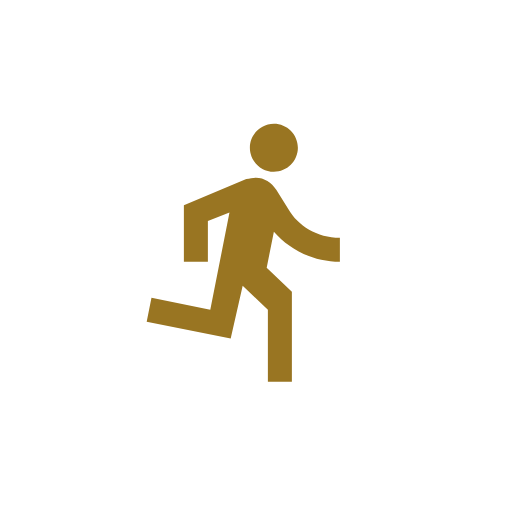
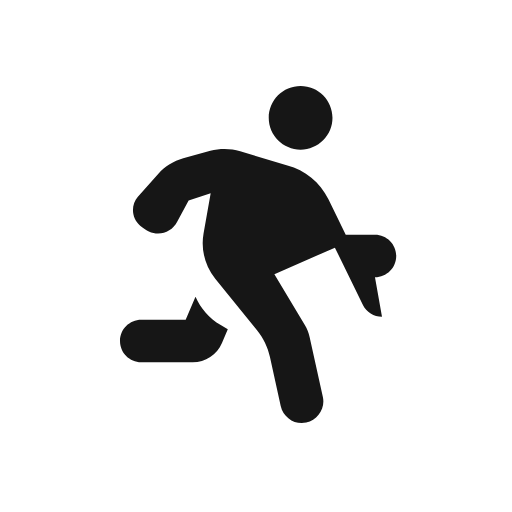
Add files via upload

Changed region(s): [[0.2188, 0.1562, 0.7812, 0.8438]]

diff --git a/index.html b/index.html
@@ -140,6 +140,31 @@ textarea{min-height:64px;resize:vertical}
 </style>
 </head>
 <body>
+<div id="splash" aria-label="Valencia Marathon 2026 — 3.09. Tap to start.">
+  <img class="bg" src="start.jpg" alt="" aria-hidden="true"/>
+  <img class="fg" src="start.jpg" alt="Valencia Marathon 2026 — 3.09"/>
+</div>
+<style>
+#splash{position:fixed;inset:0;z-index:9999;background:#0c0b09;display:block;
+  transition:opacity .5s ease;overflow:hidden;cursor:pointer;-webkit-tap-highlight-color:transparent}
+#splash img{position:absolute;inset:0;width:100%;height:100%;display:block}
+#splash .bg{object-fit:cover;filter:blur(30px) brightness(.55);transform:scale(1.12)}
+#splash .fg{object-fit:contain}
+#splash.hide{opacity:0;pointer-events:none}
+</style>
+<script>
+(function(){
+  function boot(){
+    var s=document.getElementById('splash'); if(!s) return;
+    var done=false;
+    function hide(){ if(done) return; done=true; s.classList.add('hide'); setTimeout(function(){ s.style.display='none'; },520); }
+    s.addEventListener('click',hide,{once:true});
+    s.addEventListener('touchstart',hide,{once:true,passive:true});
+    setTimeout(hide,2600);
+  }
+  if(document.readyState!=='loading') boot(); else document.addEventListener('DOMContentLoaded',boot);
+})();
+</script>
 <div id="root"></div>
 <script>!function(n,t){"object"==typeof exports&&"undefined"!=typeof module?t(exports):"function"==typeof define&&define.amd?define(["exports"],t):t((n||self).preact={})}(this,function(n){var t,i,e,r,f,o,u,c,s,a,h,l,p,y,v,d,w="http://www.w3.org/2000/svg",_="http://www.w3.org/1999/xhtml",g=null,m=void 0,b={},k=[],x=/acit|ex(?:s|g|n|p|$)|rph|grid|ows|mnc|ntw|ine[ch]|zoo|^ord|itera/i,M=Array.isArray;function S(n,t){for(var i in t)n[i]=t[i];return n}function T(n){n&&n.parentNode&&n.parentNode.removeChild(n)}function $(n,i,e){var r,f,o,u={};for(o in i)"key"==o?r=i[o]:"ref"==o?f=i[o]:u[o]=i[o];if(arguments.length>2&&(u.children=arguments.length>3?t.call(arguments,2):e),"function"==typeof n&&n.defaultProps!=g)for(o in n.defaultProps)u[o]===m&&(u[o]=n.defaultProps[o]);return C(n,u,r,f,g)}function C(n,t,r,f,o){var u={type:n,props:t,key:r,ref:f,__k:g,__:g,__b:0,__e:g,__c:g,constructor:m,__v:o==g?++e:o,__i:-1,__u:0};return o==g&&i.vnode!=g&&i.vnode(u),u}function I(n){return n.children}function P(n,t){this.props=n,this.context=t}function j(n,t){if(t==g)return n.__?j(n.__,n.__i+1):g;for(var i;t<n.__k.length;t++)if((i=n.__k[t])!=g&&i.__e!=g)return i.__e;return"function"==typeof n.type?j(n):g}function A(n){if(n.__P&&n.__d){var t=n.__v,e=t.__e,r=[],f=[],o=S({},t);o.__v=t.__v+1,i.vnode&&i.vnode(o),E(n.__P,o,t,n.__n,n.__P.namespaceURI,32&t.__u?[e]:g,r,e==g?j(t):e,!!(32&t.__u),f),o.__v=t.__v,o.__.__k[o.__i]=o,J(r,o,f),t.__e=t.__=null,o.__e!=e&&H(o)}}function H(n){if((n=n.__)!=g&&n.__c!=g)return n.__e=n.__c.base=g,n.__k.some(function(t){if(t!=g&&t.__e!=g)return n.__e=n.__c.base=t.__e}),H(n)}function L(n){(!n.__d&&(n.__d=!0)&&f.push(n)&&!F.__r++||o!=i.debounceRendering)&&((o=i.debounceRendering)||u)(F)}function F(){try{for(var n,t=1;f.length;)f.length>t&&f.sort(c),n=f.shift(),t=f.length,A(n)}finally{f.length=F.__r=0}}function O(n,t,i,e,r,f,o,u,c,s,a){var h,l,p,y,v,d,w=e&&e.__k||k,_=t.length;for(c=z(i,t,w,c,_),h=0;h<_;h++)(p=i.__k[h])!=g&&(l=-1!=p.__i&&w[p.__i]||b,p.__i=h,d=E(n,p,l,r,f,o,u,c,s,a),y=p.__e,p.ref&&l.ref!=p.ref&&(l.ref&&R(l.ref,g,p),a.push(p.ref,p.__c||y,p)),v==g&&y!=g&&(v=y),4&p.__u?(c=N(p,c,n),l.__e&&(l.__e=g)):"function"==typeof p.type&&d!==m?c=d:y&&(c=y.nextSibling),p.__u&=-7);return i.__e=v,c}function z(n,t,i,e,r){var f,o,u,c,s,a=i.length,h=a,l=0;for(n.__k=new Array(r),f=0;f<r;f++)(o=t[f])!=g&&"boolean"!=typeof o&&"function"!=typeof o?("string"==typeof o||"number"==typeof o||"bigint"==typeof o||o.constructor==String?o=n.__k[f]=C(g,o,g,g,g):M(o)?o=n.__k[f]=C(I,{children:o},g,g,g):o.constructor===m&&o.__b>0?o=n.__k[f]=C(o.type,o.props,o.key,o.ref?o.ref:g,o.__v):n.__k[f]=o,c=f+l,o.__=n,o.__b=n.__b+1,s=o.__i=V(o,i,c,h),u=g,-1!=s&&(h--,(u=i[s])&&(u.__u|=2)),u==g||u.__v==g?(-1==s&&(r>a?l--:r<a&&l++),"function"!=typeof o.type&&(o.__u|=4)):s!=c&&(s==c-1?l--:s==c+1?l++:(s>c?l--:l++,o.__u|=4))):n.__k[f]=g;if(h)for(f=0;f<a;f++)(u=i[f])!=g&&0==(2&u.__u)&&(u.__e==e&&(e=j(u)),U(u,u));return e}function N(n,t,i){var e,r;if("function"==typeof n.type){for(e=n.__k,r=0;e&&r<e.length;r++)e[r]&&(e[r].__=n,t=N(e[r],t,i));return t}n.__e!=t&&(t&&n.type&&!t.parentNode&&(t=j(n)),t=i.insertBefore(n.__e,t||g));do{t=t&&t.nextSibling}while(t!=g&&8==t.nodeType);return t}function V(n,t,i,e){var r,f,o,u=n.key,c=n.type,s=t[i],a=s!=g&&0==(2&s.__u);if(s===g&&null==u||a&&u==s.key&&c==s.type)return i;if(e>(a?1:0))for(r=i-1,f=i+1;r>=0||f<t.length;)if((s=t[o=r>=0?r--:f++])!=g&&0==(2&s.__u)&&u==s.key&&c==s.type)return o;return-1}function q(n,t,i){"-"==t[0]?n.setProperty(t,i==g?"":i):n[t]=i==g?"":"number"!=typeof i||x.test(t)?i:i+"px"}function B(n,t,i,e,r){var f,o;n:if("style"==t)if("string"==typeof i)n.style.cssText=i;else{if("string"==typeof e&&(n.style.cssText=e=""),e)for(t in e)i&&t in i||q(n.style,t,"");if(i)for(t in i)e&&i[t]==e[t]||q(n.style,t,i[t])}else if("o"==t[0]&&"n"==t[1])f=t!=(t=t.replace(l,"$1")),o=t.toLowerCase(),t=o in n||"onFocusOut"==t||"onFocusIn"==t?o.slice(2):t.slice(2),n.l||(n.l={}),n.l[t+f]=i,i?e?i[h]=e[h]:(i[h]=p,n.addEventListener(t,f?v:y,f)):n.removeEventListener(t,f?v:y,f);else{if(r==w)t=t.replace(/xlink(H|:h)/,"h").replace(/sName$/,"s");else if("width"!=t&&"height"!=t&&"href"!=t&&"list"!=t&&"form"!=t&&"tabIndex"!=t&&"download"!=t&&"rowSpan"!=t&&"colSpan"!=t&&"role"!=t&&"popover"!=t&&t in n)try{n[t]=i==g?"":i;break n}catch(n){}"function"==typeof i||(i==g||!1===i&&"-"!=t[4]?n.removeAttribute(t):n.setAttribute(t,"popover"==t&&1==i?"":i))}}function D(n){return function(t){if(this.l){var e=this.l[t.type+n];if(t[a]==g)t[a]=p++;else if(t[a]<e[h])return;return e(i.event?i.event(t):t)}}}function E(n,t,e,r,f,o,u,c,s,a){var h,l,p,y,v,d,w,_,b,x,$,C,A,H,L,F,z=t.type;if(t.constructor!==m)return g;128&e.__u&&(s=!!(32&e.__u),o=[c=t.__e=e.__e]),(h=i.__b)&&h(t);n:if("function"==typeof z){l=u.length;try{if(b=t.props,x=z.prototype&&z.prototype.render,$=(h=z.contextType)&&r[h.__c],C=h?$?$.props.value:h.__:r,e.__c?_=(p=t.__c=e.__c).__=p.__E:(x?t.__c=p=new z(b,C):(t.__c=p=new P(b,C),p.constructor=z,p.render=W),$&&$.sub(p),p.state||(p.state={}),p.__n=r,y=p.__d=!0,p.__h=[],p._sb=[]),x&&p.__s==g&&(p.__s=p.state),x&&z.getDerivedStateFromProps!=g&&(p.__s==p.state&&(p.__s=S({},p.__s)),S(p.__s,z.getDerivedStateFromProps(b,p.__s))),v=p.props,d=p.state,p.__v=t,y)x&&z.getDerivedStateFromProps==g&&p.componentWillMount!=g&&p.componentWillMount(),x&&p.componentDidMount!=g&&p.__h.push(p.componentDidMount);else{if(x&&z.getDerivedStateFromProps==g&&b!==v&&p.componentWillReceiveProps!=g&&p.componentWillReceiveProps(b,C),t.__v==e.__v||!p.__e&&p.shouldComponentUpdate!=g&&!1===p.shouldComponentUpdate(b,p.__s,C)){t.__v!=e.__v&&(p.props=b,p.state=p.__s,p.__d=!1),t.__e=e.__e,t.__k=e.__k,t.__k.some(function(n){n&&(n.__=t)}),k.push.apply(p.__h,p._sb),p._sb=[],p.__h.length&&u.push(p),c=j(e);break n}p.componentWillUpdate!=g&&p.componentWillUpdate(b,p.__s,C),x&&p.componentDidUpdate!=g&&p.__h.push(function(){p.componentDidUpdate(v,d,w)})}if(p.context=C,p.props=b,p.__P=n,p.__e=!1,A=i.__r,H=0,x)p.state=p.__s,p.__d=!1,A&&A(t),h=p.render(p.props,p.state,p.context),k.push.apply(p.__h,p._sb),p._sb=[];else do{p.__d=!1,A&&A(t),h=p.render(p.props,p.state,p.context),p.state=p.__s}while(p.__d&&++H<25);p.state=p.__s,p.getChildContext!=g&&(r=S(S({},r),p.getChildContext())),x&&!y&&p.getSnapshotBeforeUpdate!=g&&(w=p.getSnapshotBeforeUpdate(v,d)),L=h!=g&&h.type===I&&h.key==g?K(h.props.children):h,c=O(n,M(L)?L:[L],t,e,r,f,o,u,c,s,a),p.base=t.__e,t.__u&=-161,p.__h.length&&u.push(p),_&&(p.__E=p.__=g)}catch(n){if(u.length=l,t.__v=g,s||o!=g){if(n.then){for(t.__u|=s?160:128;c&&8==c.nodeType&&c.nextSibling;)c=c.nextSibling;o!=g&&(o[o.indexOf(c)]=g),t.__e=c}else if(o!=g)for(F=o.length;F--;)T(o[F])}else t.__e=e.__e;t.__k==g&&(t.__k=e.__k||[]),n.then||G(t),i.__e(n,t,e)}}else o==g&&t.__v==e.__v?(t.__k=e.__k,t.__e=e.__e):c=t.__e=Q(e.__e,t,e,r,f,o,u,s,a);return(h=i.diffed)&&h(t),128&t.__u?void 0:c}function G(n){n&&(n.__c&&(n.__c.__e=!0),n.__k&&n.__k.some(G))}function J(n,t,e){for(var r=0;r<e.length;r++)R(e[r],e[++r],e[++r]);i.__c&&i.__c(t,n),n.some(function(t){try{n=t.__h,t.__h=[],n.some(function(n){n.call(t)})}catch(n){i.__e(n,t.__v)}})}function K(n){return"object"!=typeof n||n==g||n.__b>0?n:M(n)?n.map(K):n.constructor!==m?null:S({},n)}function Q(n,e,r,f,o,u,c,s,a){var h,l,p,y,v,d,k,x=r.props||b,S=e.props,$=e.type;if("svg"==$?o=w:"math"==$?o="http://www.w3.org/1998/Math/MathML":o||(o=_),u!=g)for(h=0;h<u.length;h++)if((v=u[h])&&"setAttribute"in v==!!$&&($?v.localName==$:3==v.nodeType)){n=v,u[h]=g;break}if(n==g){if($==g)return document.createTextNode(S);n=document.createElementNS(o,$,S.is&&S),s&&(i.__m&&i.__m(e,u),s=!1),u=g}if($==g)x===S||s&&n.data==S||(n.data=S);else{if(u="textarea"==$&&S.defaultValue!=g?g:u&&t.call(n.childNodes),!s&&u!=g)for(x={},h=0;h<n.attributes.length;h++)x[(v=n.attributes[h]).name]=v.value;for(h in x)v=x[h],"dangerouslySetInnerHTML"==h?p=v:"children"==h||h in S||"value"==h&&"defaultValue"in S||"checked"==h&&"defaultChecked"in S||B(n,h,g,v,o);for(h in S)v=S[h],"children"==h?y=v:"dangerouslySetInnerHTML"==h?l=v:"value"==h?d=v:"checked"==h?k=v:s&&"function"!=typeof v||x[h]===v||B(n,h,v,x[h],o);if(l)s||p&&(l.__html==p.__html||l.__html==n.innerHTML)||(n.innerHTML=l.__html),e.__k=[];else if(p&&(n.innerHTML=""),O("template"==e.type?n.content:n,M(y)?y:[y],e,r,f,"foreignObject"==$?_:o,u,c,u?u[0]:r.__k&&j(r,0),s,a),u!=g)for(h=u.length;h--;)T(u[h]);s&&"textarea"!=$||(h="value","progress"==$&&d==g?n.removeAttribute("value"):d!=m&&(d!==n[h]||"progress"==$&&!d||"option"==$&&d!=x[h])&&B(n,h,d,x[h],o),h="checked",k!=m&&k!=n[h]&&B(n,h,k,x[h],o))}return n}function R(n,t,e){try{if("function"==typeof n){var r="function"==typeof n.__u;r&&n.__u(),r&&t==g||(n.__u=n(t))}else n.current=t}catch(n){i.__e(n,e)}}function U(n,t,e){var r,f;if(i.unmount&&i.unmount(n),(r=n.ref)&&(r.current&&r.current!=n.__e||R(r,g,t)),(r=n.__c)!=g){if(r.componentWillUnmount)try{r.componentWillUnmount()}catch(n){i.__e(n,t)}r.base=r.__P=r.__n=g}if(r=n.__k)for(f=0;f<r.length;f++)r[f]&&U(r[f],t,e||"function"!=typeof n.type);e||T(n.__e),n.__c=n.__=n.__e=m}function W(n,t,i){return this.constructor(n,i)}function X(n,e,r){var f,o,u,c;e==document&&(e=document.documentElement),i.__&&i.__(n,e),o=(f="function"==typeof r)?g:r&&r.__k||e.__k,u=[],c=[],E(e,n=(!f&&r||e).__k=$(I,g,[n]),o||b,b,e.namespaceURI,!f&&r?[r]:o?g:e.firstChild?t.call(e.childNodes):g,u,!f&&r?r:o?o.__e:e.firstChild,f,c),J(u,n,c),n.props.children=g}t=k.slice,i={__e:function(n,t,i,e){for(var r,f,o;t=t.__;)if((r=t.__c)&&!r.__)try{if((f=r.constructor)&&f.getDerivedStateFromError!=g&&(r.setState(f.getDerivedStateFromError(n)),o=r.__d),r.componentDidCatch!=g&&(r.componentDidCatch(n,e||{}),o=r.__d),o)return r.__E=r}catch(t){n=t}throw n}},e=0,r=function(n){return n!=g&&n.constructor===m},P.prototype.setState=function(n,t){var i;i=this.__s!=g&&this.__s!=this.state?this.__s:this.__s=S({},this.state),"function"==typeof n&&(n=n(S({},i),this.props)),n&&S(i,n),n!=g&&this.__v&&(t&&this._sb.push(t),L(this))},P.prototype.forceUpdate=function(n){this.__v&&(this.__e=!0,n&&this.__h.push(n),L(this))},P.prototype.render=I,f=[],u="function"==typeof Promise?Promise.prototype.then.bind(Promise.resolve()):setTimeout,c=function(n,t){return n.__v.__b-t.__v.__b},F.__r=0,s=Math.random().toString(8),a="__d"+s,h="__a"+s,l=/(PointerCapture)$|Capture$/i,p=0,y=D(!1),v=D(!0),d=0,n.Component=P,n.Fragment=I,n.cloneElement=function(n,i,e){var r,f,o,u,c=S({},n.props);for(o in n.type&&n.type.defaultProps&&(u=n.type.defaultProps),i)"key"==o?r=i[o]:"ref"==o?f=i[o]:c[o]=i[o]===m&&u!=m?u[o]:i[o];return arguments.length>2&&(c.children=arguments.length>3?t.call(arguments,2):e),C(n.type,c,r||n.key,f||n.ref,g)},n.createContext=function(n){function t(n){var i,e;return this.getChildContext||(i=new Set,(e={})[t.__c]=this,this.getChildContext=function(){return e},this.componentWillUnmount=function(){i=g},this.shouldComponentUpdate=function(n){this.props.value!=n.value&&i.forEach(function(n){n.__e=!0,L(n)})},this.sub=function(n){i.add(n);var t=n.componentWillUnmount;n.componentWillUnmount=function(){i&&i.delete(n),t&&t.call(n)}}),n.children}return t.__c="__cC"+d++,t.__=n,t.Provider=t.__l=(t.Consumer=function(n,t){return n.children(t)}).contextType=t,t},n.createElement=$,n.createRef=function(){return{current:g}},n.h=$,n.hydrate=function n(t,i){X(t,i,n)},n.isValidElement=r,n.options=i,n.render=X,n.toChildArray=function n(t,i){return i=i||[],t==g||"boolean"==typeof t||(M(t)?t.some(function(t){n(t,i)}):i.push(t)),i}});
 //# sourceMappingURL=preact.umd.js.map
